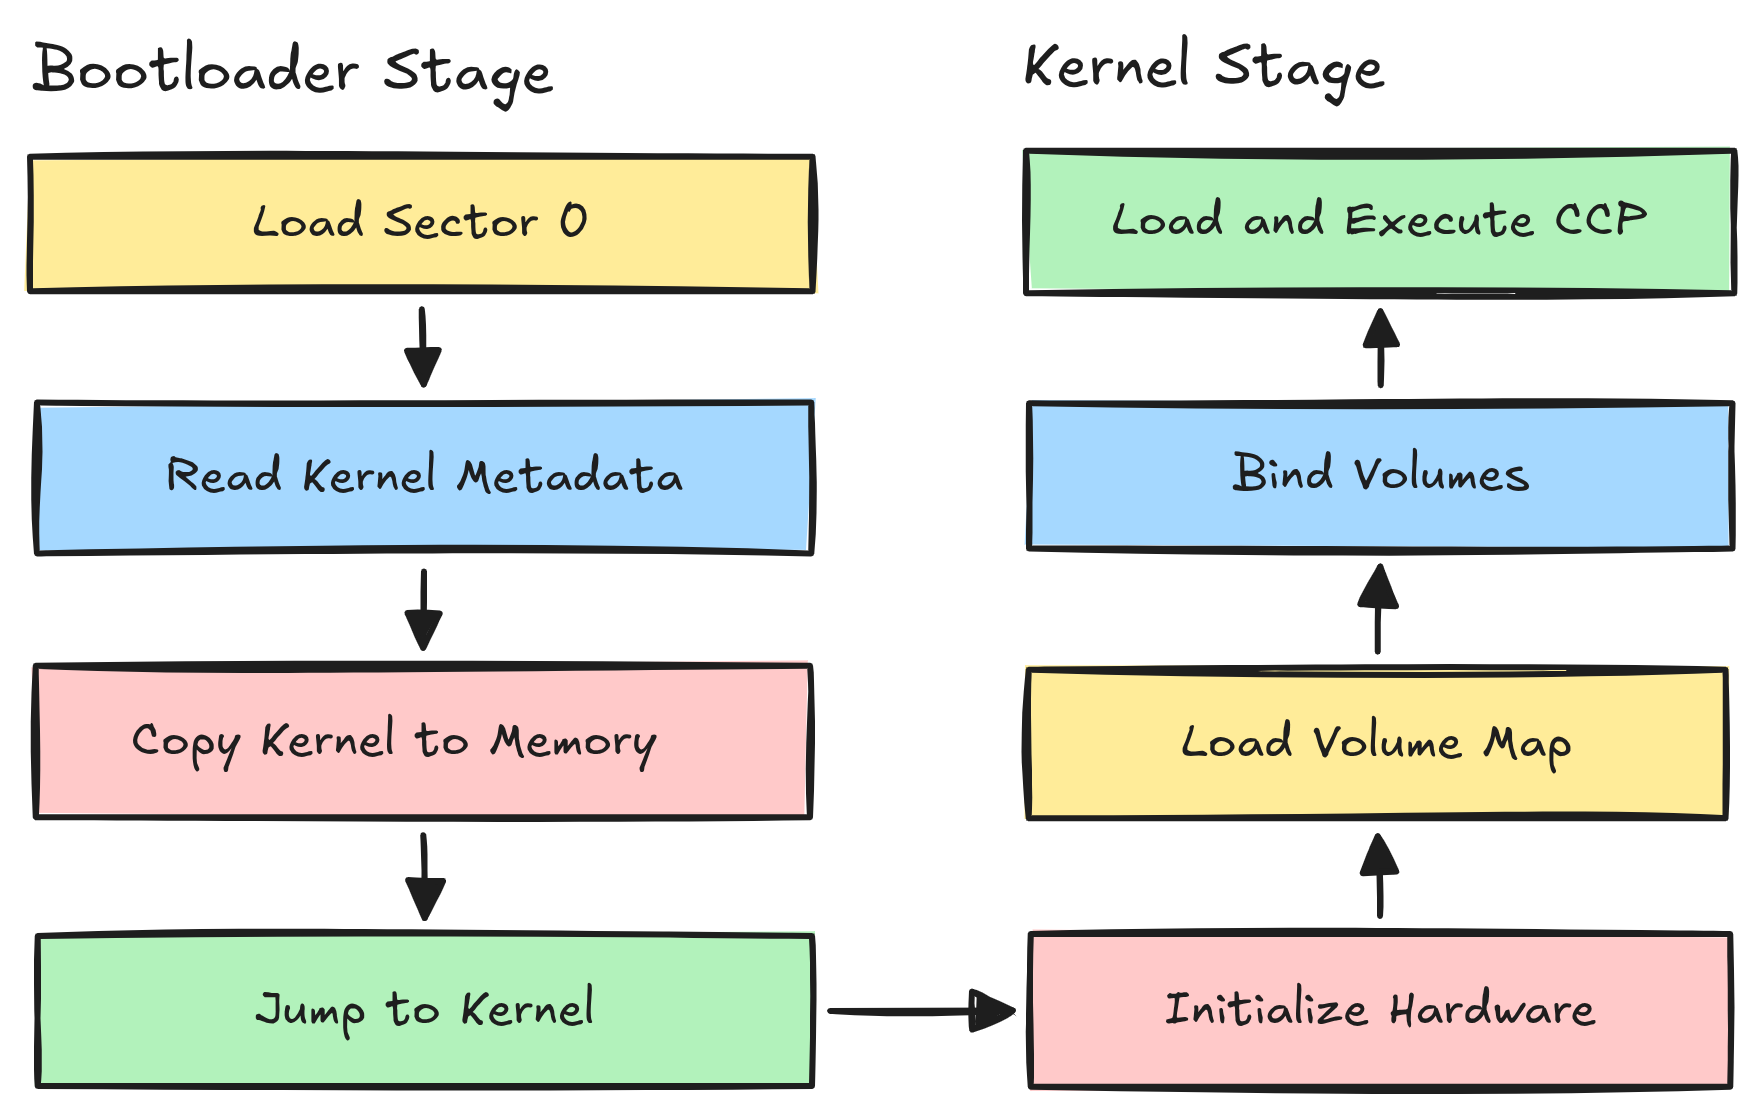
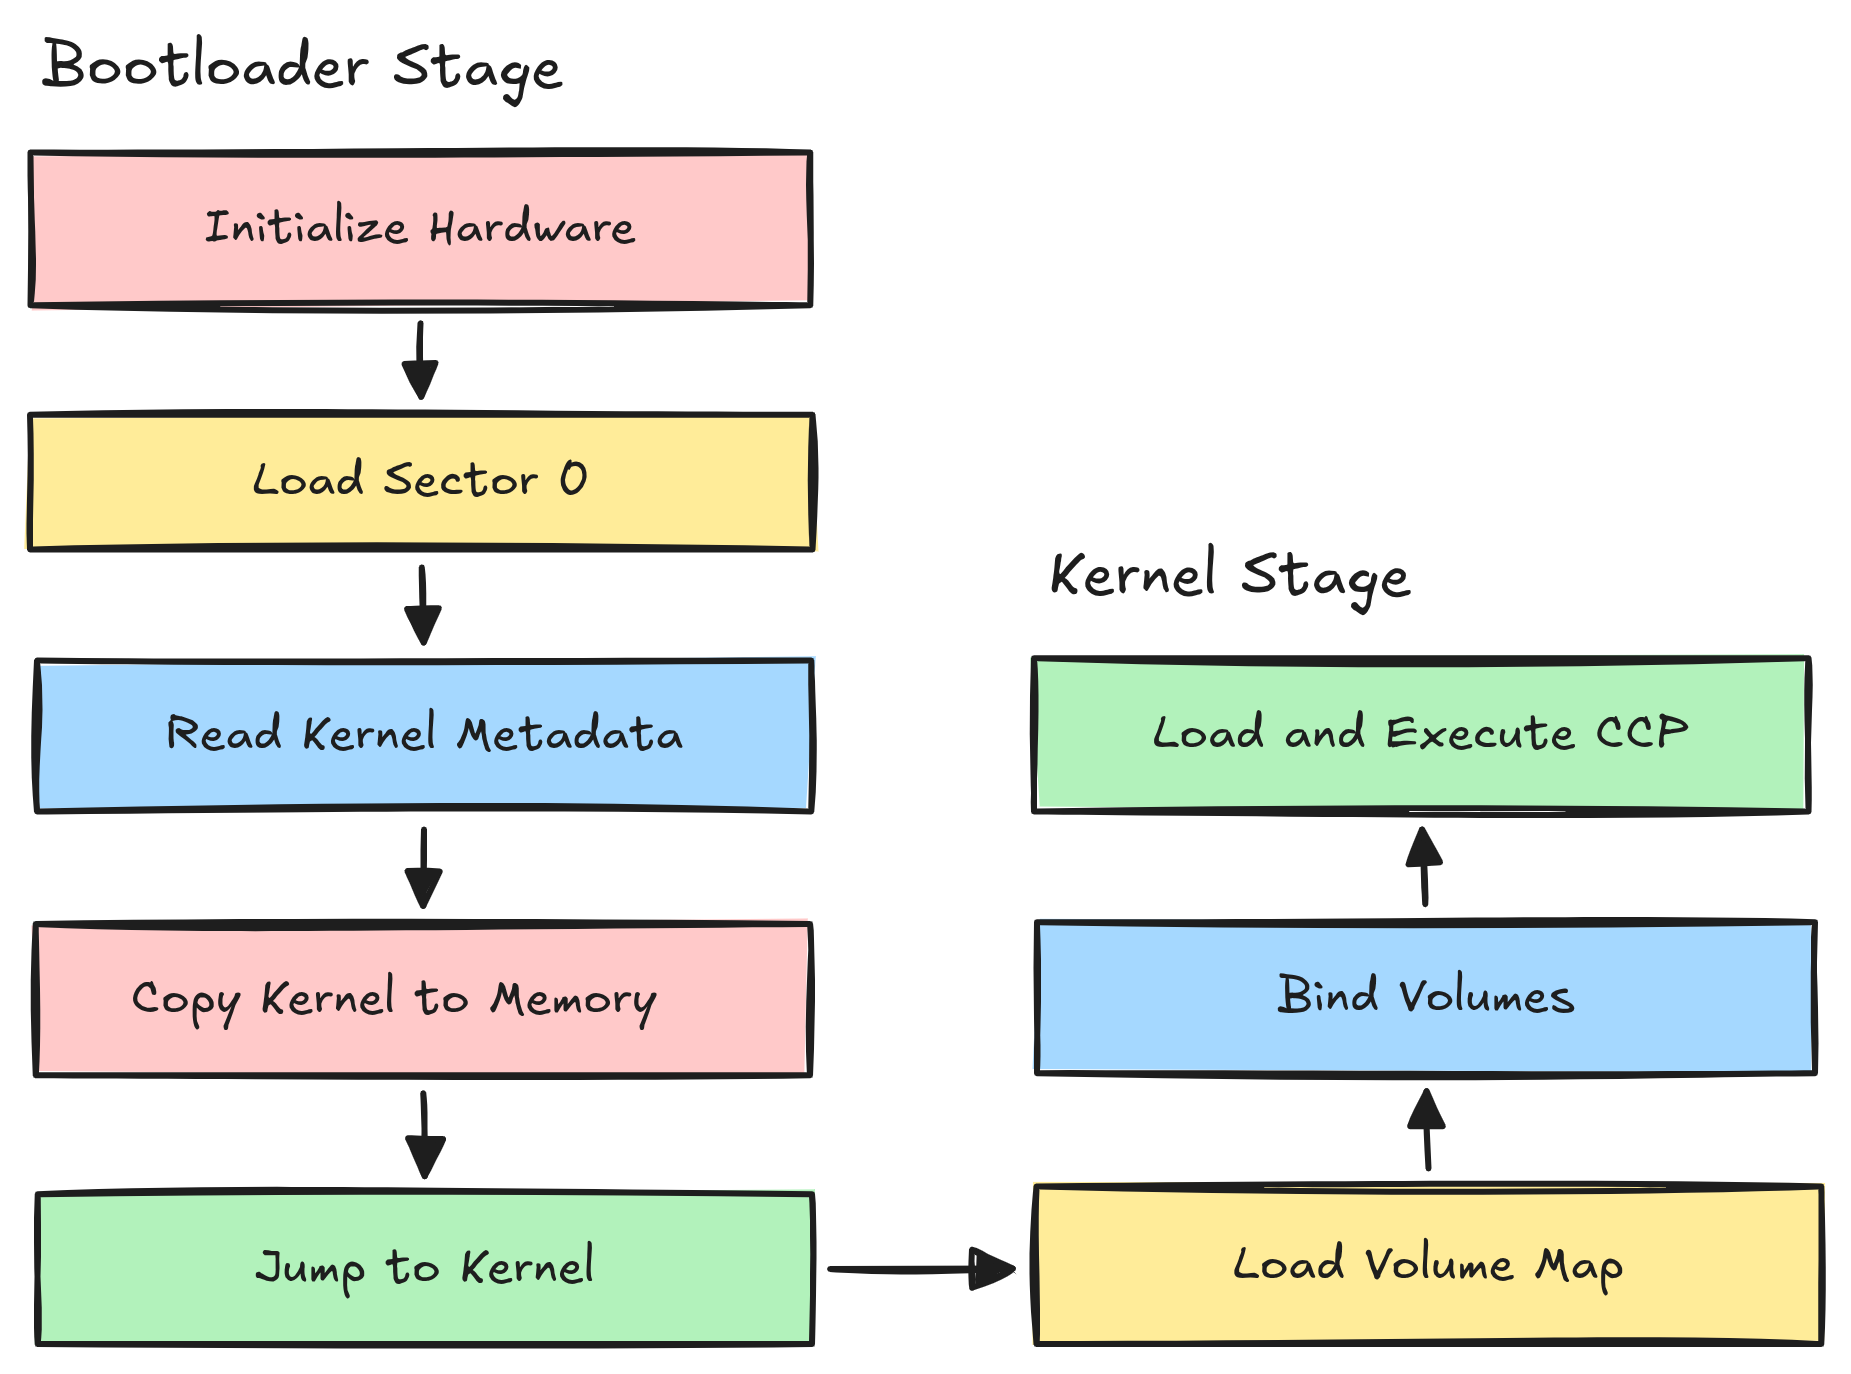
bios init now done in bootloader

diff --git a/core/kernel/kernel.c b/core/kernel/kernel.c
@@ -173,9 +173,6 @@ static int make_name83(const char *src, char *out)
  */
 int kernel_init(void)
 {
-    if (bios_init() != 0)
-        return EIO;
-
     if (disk_init() != 0)
         return EIO;
 

diff --git a/docs/architecture.md b/docs/architecture.md
@@ -15,7 +15,9 @@ This page describes how CP/M Neo is laid out in memory, how it boots, and how it
 
 <img src="images/boot-process.png" alt="boot process" width="100%">
 
-1. The bootloader reads sector 0 into a scratch buffer and verifies the `0xAA55` boot signature.
+1. The bootloader calls `bios_init()` to initialize platform hardware, then
+   reads sector 0 into a scratch buffer and verifies the `0xAA55` boot
+   signature.
 2. Reads the kernel load address and size from the sector-0 header (offsets in `core/kernel/s0_layout.h`).
 3. It loads the kernel sectors into RAM and verifies the kernel magic, then
    jumps to the kernel entry point.
@@ -24,7 +26,6 @@ This page describes how CP/M Neo is laid out in memory, how it boots, and how it
 
 `os_entry()` (core/kernel/main.c) runs `kernel_init()`:
 
-- `bios_init()`: platform hardware setup.
 - `disk_init()`: reads the volume map (VMAP) from sector 1.
 - Publishes the syscall table address into environment slot 0.
 - Binds the mounted volumes (A:–D:); the first mount becomes the default drive.
